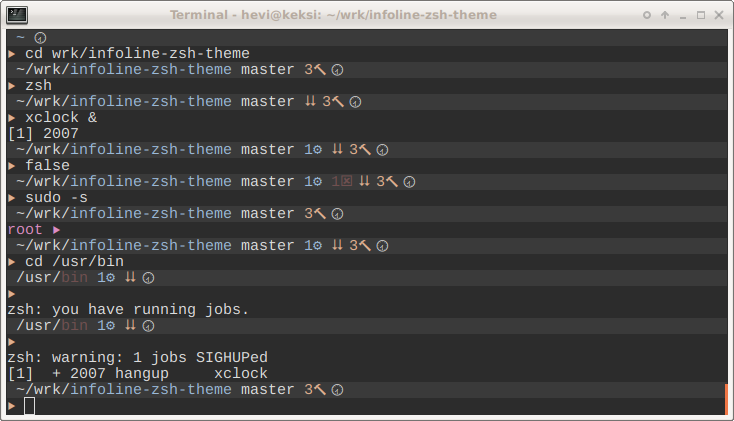
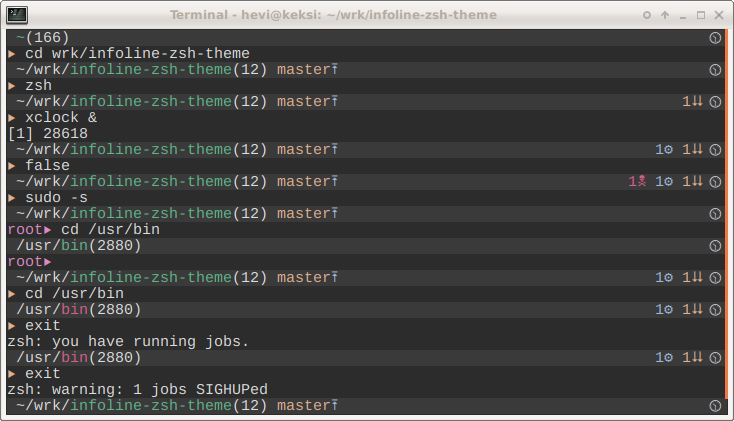
bash cleanup. presentation update

diff --git a/infoline/__main__.py b/infoline/__main__.py
@@ -23,7 +23,6 @@ class Char:
     cross = '✖'
     dot = '●'
     flag = '⚑'
-    # TODO skull uses 2 characters ?
     skull = '\U0001F571'  # '🕱' 2 chars ? U+1F571
     jobs = '⚙'
     level = '⮇'
@@ -34,11 +33,6 @@ class Char:
     diverged = '⭿'
     stashed = '≡'
     start = '▶'
-
-class BashChar(Char):
-    level = '|'
-
-Char = BashChar
 
 
 class NoColor:
@@ -56,7 +50,7 @@ class NoColor:
 zsh_cover = lambda t: "%%{%s%%}" % t
 
 
-class ZshShell(NoColor):
+class Shell(NoColor):
     ok = zsh_cover(ansi.fg(2))
     note = zsh_cover(ansi.fg(4))
     focus = zsh_cover(ansi.fg(3))
@@ -66,31 +60,6 @@ class ZshShell(NoColor):
     reset = zsh_cover(ansi.reset)
     line = zsh_cover(ansi.bg(237))
     strip = re.compile(r'%{.*?%}')
-
-
-# TODO bash support, bash shell detection
-
-# NOTE bash prompt non-printable markers \[ and \] don't work on command
-#      variable $(cmd), use \x01 and \x02 instead
-
-bash_cover = lambda t: "\x01%s\x02" % t
-
-class BashShell(NoColor):
-    ok = bash_cover(ansi.fg(2))
-    note = bash_cover(ansi.fg(4))
-    focus = bash_cover(ansi.fg(3))
-    important = bash_cover(ansi.fg(5))
-    error = bash_cover(ansi.fg(168))
-    default = bash_cover(ansi.fg_default)
-    reset = bash_cover(ansi.reset)
-    line = bash_cover(ansi.bg(237))
-    strip = re.compile('\x01.*?\x02')
-
-
-Shell = ZshShell
-
-
-# Shell = BashShell # don't work yet \[ \] evaluation problem
 
 
 class Info:
@@ -121,6 +90,7 @@ def info(*, priority=0, align="L"):
     return wrap
 
 
+## * Show host if in remote (ssh) computer
 @info()
 def host(maxwidth, _):
     try:
@@ -129,7 +99,10 @@ def host(maxwidth, _):
     except KeyError:
         return ""
 
-
+## * Show Current Working directory
+##   * show cwd, trunkated from start if not enough room
+##   * Current dir part as green if can write, red if not
+##   * Number of files in current dir
 @info()
 def cwd(maxwidth, _):
     cwd = os.getcwd()
@@ -170,6 +143,10 @@ def cwd(maxwidth, _):
 # TODO git conflicted files
 # TODO git stashes
 # logic from https://github.com/robbyrussell/oh-my-zsh/blob/master/lib/git.zsh
+## * Show git status if exists
+##   * Repo dirty
+##   * Untracked files
+##   * Repo ahead, behind or diverged from upstream. Missing upstream.
 @info()
 def show_git(maxwidth, _):
     try:
@@ -199,7 +176,9 @@ def show_git(maxwidth, _):
         indicators += Shell.error + Char.ahead + Shell.default
     return color + str(branch) + indicators
 
-
+# NOTE Set export VIRTUAL_ENV_DISABLE_PROMPT=yes
+# TODO Sign for virtual env
+## * Show python virtual env
 @info()
 def virtual_env(maxwidth, _):
     try:
@@ -209,7 +188,7 @@ def virtual_env(maxwidth, _):
     except KeyError:
         return ""
 
-
+## * 🕱 Program return code if error
 @info(align="R")
 def rc(_, ctx):
     try:
@@ -221,7 +200,7 @@ def rc(_, ctx):
     except KeyError:
         return Shell.error + "rc=$?"
 
-
+## * ⚙ Number of spawned jobs from shell
 @info(align="R")
 def jobs(_1, _2):
     this_process = psutil.Process()
@@ -233,7 +212,7 @@ def jobs(_1, _2):
     else:
         return ""
 
-
+## * ⮇ Shell level indicator
 @info(align="R")
 def shell_level(_1, _2):
     try:
@@ -247,7 +226,7 @@ def shell_level(_1, _2):
     except KeyError or ValueError:
         return Shell.error + "\\$SHLVL"
 
-
+## * 🖸 Disk usage alert if over 80% capacity
 @info(align="R")
 def disk(_1, _2):
     usage = psutil.disk_usage(".").percent
@@ -256,7 +235,7 @@ def disk(_1, _2):
     else:
         return ""
 
-
+## * VM Virtual memory usage alert if over 80% capacity
 @info(align="R")
 def virtual_memory(_1, _2):
     usage = psutil.virtual_memory().percent
@@ -266,7 +245,7 @@ def virtual_memory(_1, _2):
         return ""
 
 
-# TODO todos
+# TODO todos in current directory info
 
 
 clocks = {
@@ -307,6 +286,7 @@ def start():
     return color + user + Char.start + " "
 
 
+# NOTE Set export DEBUG_PROMPT=1 to show debug log on prompt making
 def main():
     if os.environ.get("DEBUG_PROMPT"):
         logging.basicConfig(level=logging.DEBUG)

diff --git a/README.md b/README.md
@@ -1,5 +1,5 @@
 
-# Infoline zsh theme
+# Infoline zsh prompt theme
 
 ![Screenshot of Infoline](screenshot.png "Infoline screenshot")
 
@@ -7,38 +7,56 @@
 
 ## Features
 
-* ⌘ Show host if in remote (ssh) computer
-* 🕱 Program return code if error
-* Current Working directory
+* Show host if in remote (ssh) computer
+* Show Current Working directory
   * show cwd, trunkated from start if not enough room
-  * last path part as focus if writable
-  * last path part as error if not writable'
-* Git status
+  * Current dir part as green if can write, red if not
+  * Number of files in current dir
+* Show git status if exists
+  * Repo dirty
+  * Untracked files
+  * Repo ahead, behind or diverged from upstream. Missing upstream.
+* Show python virtual env
+* 🕱 Program return code if error
 * ⚙ Number of spawned jobs from shell
-* ▶ Prompt start arrow colored (and named) by user
 * ⮇ Shell level indicator
-* 🕒 Analog clock (within 30m)
 * 🖸 Disk usage alert if over 80% capacity
-* 🔨 Number of todo items in files
+* VM Virtual memory usage alert if over 80% capacity
 
 ## Install
-Install theme as symlink to $ZSH/themes
+Install theme as symlink to oh my zsh $ZSH/themes
 ```shell
 > cd ~/src   # or wherever you like to collect local git repositories
 > git clone https://github.com/hevi9/infoline-zsh-theme.git
 > cd infoline-zsh-theme
-> make install
+> make install-omz
 ```
+
+Install to use directly in .zshrc
+  * make install instead make install-omz
+  * Edit infoline.zsh-theme contents into your .zshrc
 
 
 ## Requirements
   * 256 color and unicode terminal
+  * zsh
   * oh my zsh - https://github.com/robbyrussell/oh-my-zsh
+  * Python 3.4+, pip and dependencies via pip install:
+    * psutils
+    * gitpython
 
 
-## TODOs
+## Notes
+ * This prompt uses python for more complex and convient programmnig than shell,
+   therefore process startup cost is higher. Prompt execution takes usually
+   130ms.
+ * Set export VIRTUAL_ENV_DISABLE_PROMPT=yes
+ * Set export DEBUG_PROMPT=1 to show debug log on prompt making
 
- * cleanup "exported" variables
- * better rc sigil
- * git status by priority
- * colored clock depending quandrant ?
+## Todos
+ * bash support, after bash unicode and non-printable wrap issues are resolved
+ * git detached head
+ * git conflicted files
+ * git stashes
+ * Sign for virtual env
+ * todos in current directory info
